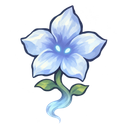
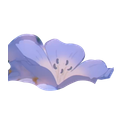
fix:花上亡灵改用苍月草原图裁剪

diff --git a/README.md b/README.md
@@ -7,7 +7,7 @@
 
 二代项目仍在开发中
 
-0.12.19：按作者《事件todo》接入“冒险物语：JOJO的奇妙冒险”：假面之门治疗8并为一张牌附魔波纹疾走，钻石之门获得替身「花上亡灵」，漆黑之门获得原版旋转工艺+。波纹疾走在奇数手牌中央一张或偶数手牌中间两张手动打出时，返还实际支付的能量，并复用原生金色条件发光；免费打出和重放不重复产生能量。花上亡灵在每次持有者洗牌后向抽牌堆加入一张苍月草；事件原图与画师署名保留。待游戏实测。
+0.12.19：按作者《事件todo》接入“冒险物语：JOJO的奇妙冒险”：假面之门治疗8并为一张牌附魔波纹疾走，钻石之门获得替身「花上亡灵」，漆黑之门获得原版旋转工艺+。波纹疾走在奇数手牌中央一张或偶数手牌中间两张手动打出时，返还实际支付的能量，并复用原生金色条件发光；免费打出和重放不重复产生能量。花上亡灵在每次持有者洗牌后向抽牌堆加入一张苍月草，遗物图标按作者要求从现有苍月草插画裁剪，不使用生成图；事件原图与画师署名保留。待游戏实测。
 
 0.12.18：新增第三幕先古之民赛莉耶，仅在全队芙莉莲的跑局加入随机候选，复用原生对话、三选一、治疗及领取流程；四件一代Boss遗物冰柱樱、服从的天平、舒适的床、辛美尔之墓归入其先古池，排除已持有遗物，保留第三幕三星委托入口。升级圣徽改用作者带金色光芒的新图，修复百科错误显示锁定的问题，普通圣徽恢复原轮廓。同步作者开局文案并更新TODO状态，暂缓与待定稿事项继续保留。待游戏实测。
 
